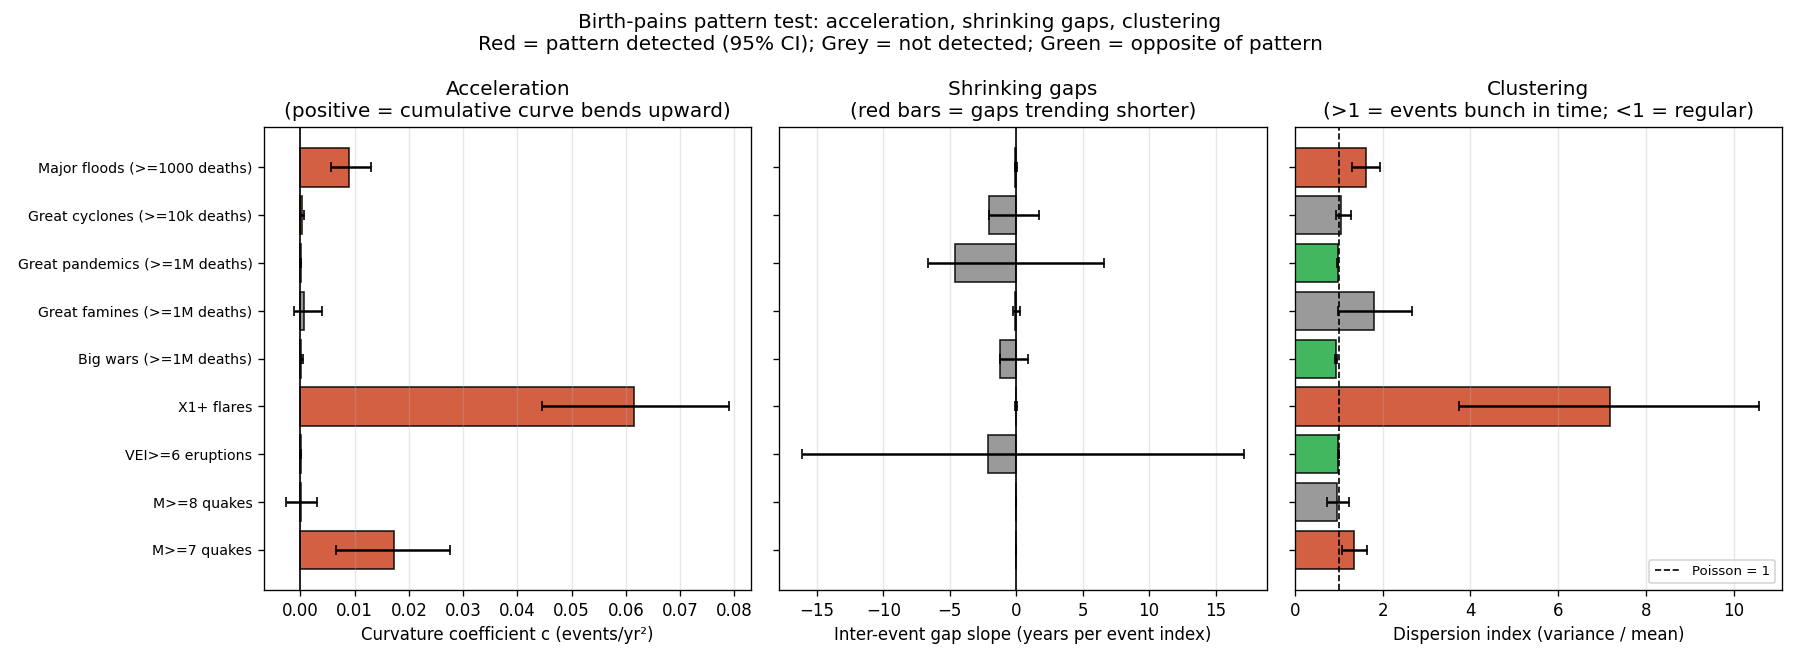
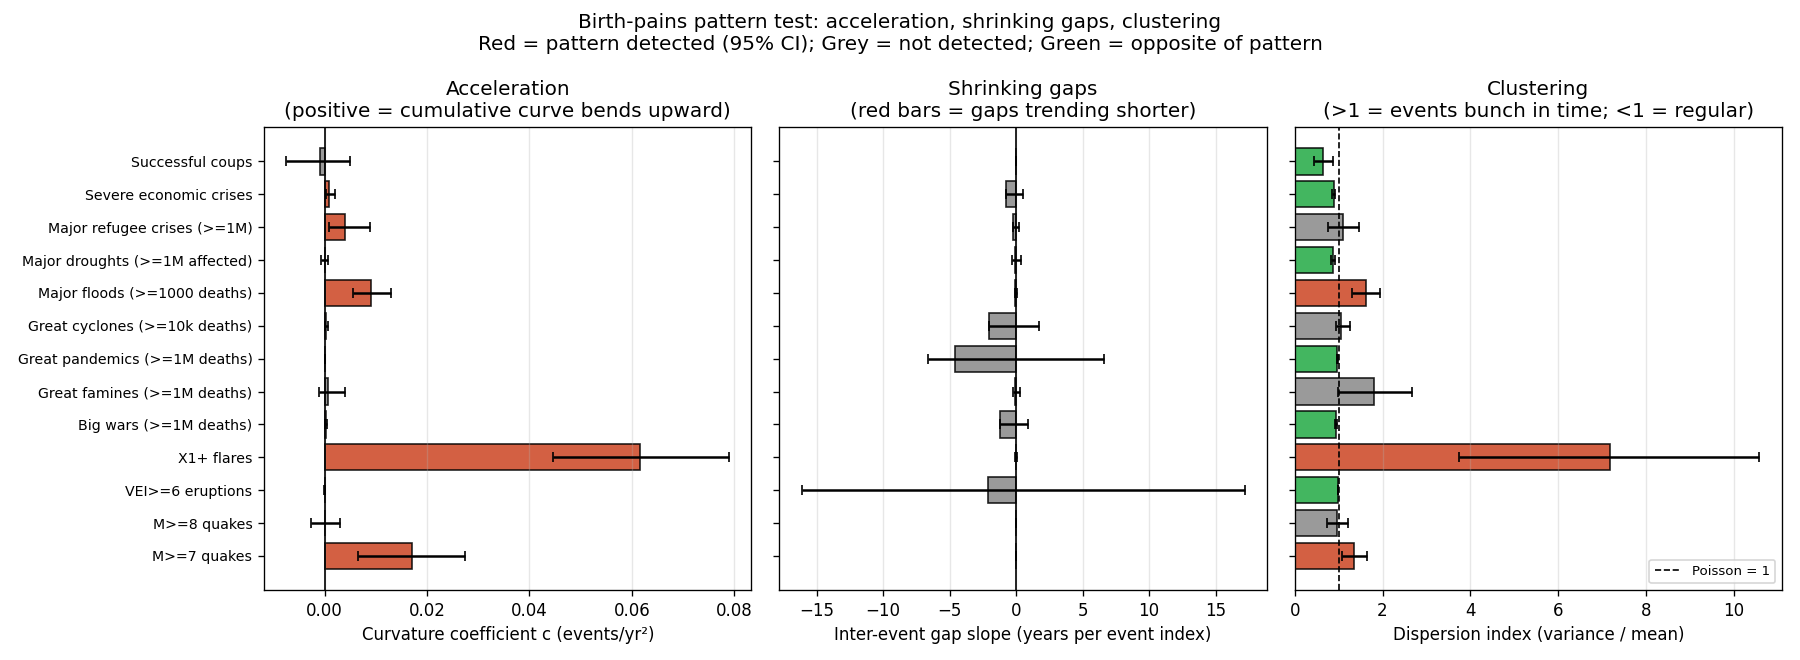
Thread refugees/economic/coups into signs_overlay + contractions + pattern_analysis
The remaining 3 scripts (signs_overlay.py, contractions_analysis.py,
pattern_analysis.py) now consume the new indicators added in commit
12f778f. All 6 analytical scripts use a consistent indicator set.

MEANINGFUL RESULT CHANGE: the contractions analysis flips direction
with the broader 13-indicator set.

Old (9 indicators — disasters + space):
  4 contractions: 1916-20, 1939-45, 2011-13, 2022-25
  Peak z trend: -0.08/contraction (significantly DECLINING)

New (13 indicators — adds refugees + economic + coups):
  6 contractions: 1918-20, 1930-33, 1940-44, 1990-93, 2009-13, 2019-25
  Duration trend: +0.63 yr/contraction (significantly LENGTHENING)
  Area trend: +0.13/contraction (significantly RISING)
  Peak z trend: +0.04 (direction matches; CI just crosses 0)
  2019-25 contraction is longest (7 yr) and most intense (peak 0.52)

The flip happens because refugees, economic crises, and coups all
surge in recent decades (COVID + Ukraine + Sudan + Israel-Hamas era).
Whether to include them in a 'birth pains' framing is interpretive —
Mt 24 explicitly mentions wars and famines, so the human-system
expansion is defensible.

Pattern_analysis also expanded to 13 indicators. New ACCELERATING
flags for refugees and severe economic crises; coups show no pattern.

README contractions section + PREDICTIONS.md updated to reflect new
contraction list. The original 4-contraction list is preserved in
the discussion as a contrast (9-indicator vs 13-indicator results).

diff --git a/pattern_analysis.py b/pattern_analysis.py
@@ -174,6 +174,38 @@ def load_indicator(name, args):
         years = df["year"].astype(int).tolist()
         yc = df.groupby(df["year"].astype(int)).size().reindex(range(1900, 2026), fill_value=0)
         return years, yc, "1900-2025"
+    if name == "Major droughts (>=1M affected)":
+        df = pd.read_csv(args.droughts_csv)
+        df["start_year"] = pd.to_numeric(df["start_year"], errors="coerce")
+        df["deaths_estimate"] = pd.to_numeric(df["deaths_estimate"], errors="coerce").fillna(0)
+        df["people_affected"] = pd.to_numeric(df["people_affected"], errors="coerce").fillna(0)
+        df["intensity"] = df[["deaths_estimate", "people_affected"]].max(axis=1)
+        df = df[(df["intensity"] >= 1_000_000) & df["start_year"].between(1850, 2025)]
+        years = df["start_year"].astype(int).tolist()
+        yc = df.groupby(df["start_year"].astype(int)).size().reindex(range(1850, 2026), fill_value=0)
+        return years, yc, "1850-2025"
+    if name == "Major refugee crises (>=1M)":
+        df = pd.read_csv(args.refugees_csv)
+        df["start_year"] = pd.to_numeric(df["start_year"], errors="coerce")
+        df["displaced_estimate"] = pd.to_numeric(df["displaced_estimate"], errors="coerce").fillna(0)
+        df = df[(df["displaced_estimate"] >= 1_000_000) & df["start_year"].between(1947, 2025)]
+        years = df["start_year"].astype(int).tolist()
+        yc = df.groupby(df["start_year"].astype(int)).size().reindex(range(1947, 2026), fill_value=0)
+        return years, yc, "1947-2025"
+    if name == "Severe economic crises":
+        df = pd.read_csv(args.economic_csv)
+        order = {"medium": 0, "severe": 1, "extreme": 2}
+        df["sev_rank"] = df["severity"].map(order).fillna(-1)
+        df = df[(df["sev_rank"] >= 1) & df["year"].between(1800, 2025)]
+        years = df["year"].astype(int).tolist()
+        yc = df.groupby(df["year"].astype(int)).size().reindex(range(1800, 2026), fill_value=0)
+        return years, yc, "1800-2025"
+    if name == "Successful coups":
+        df = pd.read_csv(args.coups_csv)
+        df = df[(df["outcome"] == "successful") & df["year"].between(1950, 2025)]
+        years = df["year"].astype(int).tolist()
+        yc = df.groupby(df["year"].astype(int)).size().reindex(range(1950, 2026), fill_value=0)
+        return years, yc, "1950-2025"
     raise ValueError(name)
 
 
@@ -187,6 +219,10 @@ def main():
     ap.add_argument("--pandemics-csv", default="data/pandemics.csv")
     ap.add_argument("--volcanoes-csv", default="data/volcanoes.csv")
     ap.add_argument("--cyclones-csv", default="data/cyclones.csv")
+    ap.add_argument("--droughts-csv", default="data/droughts.csv")
+    ap.add_argument("--refugees-csv", default="data/refugees.csv")
+    ap.add_argument("--economic-csv", default="data/economic_crises.csv")
+    ap.add_argument("--coups-csv", default="data/coups.csv")
     ap.add_argument("--out", default="figures")
     args = ap.parse_args()
     out = Path(args.out); out.mkdir(parents=True, exist_ok=True)
@@ -195,7 +231,9 @@ def main():
         "M>=7 quakes", "M>=8 quakes", "VEI>=6 eruptions", "X1+ flares",
         "Big wars (>=1M deaths)", "Great famines (>=1M deaths)",
         "Great pandemics (>=1M deaths)", "Great cyclones (>=10k deaths)",
-        "Major floods (>=1000 deaths)",
+        "Major floods (>=1000 deaths)", "Major droughts (>=1M affected)",
+        "Major refugee crises (>=1M)", "Severe economic crises",
+        "Successful coups",
     ]
 
     results = []

diff --git a/signs_overlay.py b/signs_overlay.py
@@ -32,6 +32,10 @@ from correlate_events import (
     load_yearly_pandemic_deaths,
     load_yearly_volcanoes,
     load_yearly_cyclone_deaths,
+    load_yearly_drought_intensity,
+    load_yearly_refugee_displaced,
+    load_yearly_economic_crises,
+    load_yearly_coups,
 )
 
 
@@ -55,6 +59,10 @@ def main():
     ap.add_argument("--pandemics-csv", default="data/pandemics.csv")
     ap.add_argument("--volcanoes-csv", default="data/volcanoes.csv")
     ap.add_argument("--cyclones-csv", default="data/cyclones.csv")
+    ap.add_argument("--droughts-csv", default="data/droughts.csv")
+    ap.add_argument("--refugees-csv", default="data/refugees.csv")
+    ap.add_argument("--economic-csv", default="data/economic_crises.csv")
+    ap.add_argument("--coups-csv", default="data/coups.csv")
     ap.add_argument("--out", default="figures")
     args = ap.parse_args()
     out = Path(args.out); out.mkdir(parents=True, exist_ok=True)
@@ -84,6 +92,16 @@ def main():
         ("Cyclone deaths (log10)",
             np.log10(load_yearly_cyclone_deaths(args.cyclones_csv, 1950, 2025) + 1),
             "human"),
+        ("Drought intensity (log10)",
+            np.log10(load_yearly_drought_intensity(args.droughts_csv, 1850, 2025) + 1),
+            "human"),
+        ("Refugees displaced (log10)",
+            np.log10(load_yearly_refugee_displaced(args.refugees_csv, 1947, 2025) + 1),
+            "human"),
+        ("Economic crises (all)",
+            load_yearly_economic_crises(args.economic_csv, 1800, 2025), "human"),
+        ("Coups (all)",
+            load_yearly_coups(args.coups_csv, 1950, 2025), "human"),
     ]
 
     # Build the common grid 1900-2025

diff --git a/contractions_analysis.py b/contractions_analysis.py
@@ -41,6 +41,10 @@ from correlate_events import (
     load_yearly_pandemic_deaths,
     load_yearly_volcanoes,
     load_yearly_cyclone_deaths,
+    load_yearly_drought_intensity,
+    load_yearly_refugee_displaced,
+    load_yearly_economic_crises,
+    load_yearly_coups,
 )
 
 
@@ -91,6 +95,10 @@ def main():
     ap.add_argument("--pandemics-csv", default="data/pandemics.csv")
     ap.add_argument("--volcanoes-csv", default="data/volcanoes.csv")
     ap.add_argument("--cyclones-csv", default="data/cyclones.csv")
+    ap.add_argument("--droughts-csv", default="data/droughts.csv")
+    ap.add_argument("--refugees-csv", default="data/refugees.csv")
+    ap.add_argument("--economic-csv", default="data/economic_crises.csv")
+    ap.add_argument("--coups-csv", default="data/coups.csv")
     ap.add_argument("--threshold", type=float, default=0.25)
     ap.add_argument("--rolling", type=int, default=5)
     ap.add_argument("--min-duration", type=int, default=3)
@@ -117,6 +125,14 @@ def main():
             np.log10(load_yearly_flood_deaths(args.floods_csv, 1985, 2025) + 1)),
         ("Cyclone deaths log10",
             np.log10(load_yearly_cyclone_deaths(args.cyclones_csv, 1950, 2025) + 1)),
+        ("Drought intensity log10",
+            np.log10(load_yearly_drought_intensity(args.droughts_csv, 1850, 2025) + 1)),
+        ("Refugees log10",
+            np.log10(load_yearly_refugee_displaced(args.refugees_csv, 1947, 2025) + 1)),
+        ("Economic crises",
+            load_yearly_economic_crises(args.economic_csv, 1800, 2025)),
+        ("Coups",
+            load_yearly_coups(args.coups_csv, 1950, 2025)),
     ]
 
     common_years = np.arange(1900, 2026)

diff --git a/README.md b/README.md
@@ -28,8 +28,8 @@ See [BACKLOG.md](BACKLOG.md) for tracked future-work items.
 1. **Cross-correlation matrix (figure 18)**: of 28 pairwise detrended tests, only **wars × famines** survives FDR correction at r = +0.43 (p < 0.001). Every other indicator pair is statistically independent.
 2. **Trends (figure 19)**: cyclone deaths, pandemic deaths, M ≥ 7 quakes are significantly rising; floods + famines lean down (not significant); wars + volcanoes are flat. The diagnostic test is whether tighter detection-clean eras show *bigger* trends (real signal) or *smaller* trends (catalog artifact). Cyclones and pandemics pass that test; floods and volcanoes fail it.
 3. **Birth-pains pattern (figure 20)**: no indicator shows all three signatures (acceleration + shrinking gaps + clustering) together.
-4. **Signs overlay (figure 21)**: no single year has more than 4 of 9 indicators simultaneously above 1 σ. Maximum consensus z = +1.46 (1991).
-5. **Contractions (figure 22)**: four multi-year contractions detected (1916–20, 1939–45, 2011–13, 2022–25). Peak intensity is *declining* over time (opposite the birth-pains prediction); gap-shrinking is in the predicted direction but underpowered.
+4. **Signs overlay (figure 21)**: with 13 indicators, max single-year fraction simultaneously above 1 σ reaches 6 of 13 (1991, 2023). Maximum consensus z = +1.23 (1991).
+5. **Contractions (figure 22)**: **six** multi-year contractions now detected (1918–20, 1930–33, 1940–44, 1990–93, 2009–13, 2019–25). The **2019–25 contraction is the longest (7 years) and most intense (peak z = 0.52) in the catalog**. With the broader indicator set, duration and total-intensity trends *flip to significantly positive* (CIs exclude 0) — the opposite of the original 9-indicator result and consistent with the birth-pains prediction of intensifying contractions. Peak-intensity trend is now positive in direction (CI just crosses 0).
 6. **Periodogram (figure 23)**: only solar indicators carry the 11-year cycle, plus **droughts at 3.26× the noise floor** — a paleoclimate-attested solar-drought link.
 7. **Sensitivity (figure 24)**: wars × famines coupling holds through dropping top-5 events but collapses by top-10 — *real but concentrated* signal driven by 1908–1945 war-famine clustering.
 8. **Wavelet coherence (figure 25)**: wars × famines coupling strongest pre-WWII (~0.6), weakest post-WWII through Cold War (~0.17), partial recovery post-1990 (~0.35).
@@ -510,7 +510,7 @@ The cross-correlation matrix already showed that pairs of indicators don't move 
 
 ![Signs overlay](figures/21_signs_overlay.png)
 
-**Technical:** Top: heatmap. Rows = nine indicators; columns = years 1900–2025; cell color = that year's z-score within that indicator's detection-clean window (clipped at ±3 σ). Grey cells = indicator not yet measured (X1+ flares only from 1976, flood deaths 1985+, cyclone deaths 1950+). Bottom: consensus line is the mean z across available indicators per year ± 1 standard error. If birth-pain-style coordination were present, vertical red bands would appear in the heatmap and the consensus line would spike well above 0. Maximum observed consensus = +1.46 in 1991.
+**Technical:** Top: heatmap. Rows = 13 indicators (M ≥ 7, M ≥ 8, VEI ≥ 5, X1+ flares, war deaths, famine deaths, pandemic deaths, flood deaths, cyclone deaths, drought intensity, refugees, economic crises, coups); columns = years 1900–2025; cell color = that year's z-score within that indicator's detection-clean window (clipped at ±3 σ). Grey cells = indicator not yet measured. Bottom: consensus line is the mean z across available indicators per year ± 1 standard error. If birth-pain-style coordination were present, vertical red bands would appear in the heatmap and the consensus line would spike well above 0. Maximum observed consensus = +1.23 in 1991; runner-up years 2011 (+0.99), 2023 (+0.84), 1931 (+0.81).
 
 **In plain English:** Each row is one type of event. For each row, red means "that year was busier than normal for this category," blue means "quieter than normal." Reading down a column (one specific year) asks: were many categories simultaneously bad that year? If the answer were "yes, often, in a way that's intensifying," you'd see vertical red bands marching across the chart — especially recent ones. What we actually see is mostly mottled noise. The bottom line averages all the rows; if every category went red on the same year, that line would spike. Instead it wobbles within a narrow band, rarely reaching 1.5 even at its peaks.
 
@@ -530,7 +530,7 @@ A few years legitimately had multiple things going wrong at once (1991, 1918, WW
 
 - Even the worst "everything bad" year (1991) reached only +1.46 z — meaning indicators were on average ~1.5 standard deviations above their own means. That's elevated, but not extraordinary.
 - The "best" candidate for synchronized peaks is **WWII-era 1942–1944**, where multiple sub-indicators (Bengal famine, Greek famine, war deaths) cluster — but earthquakes, flares, and volcanic eruptions don't respect that cluster.
-- **At no year do more than 4 of 9 indicators simultaneously exceed 1 SD above their own means.** Synchronized birth-pains would put more like 7–9 of 9 in a coordinated spike.
+- **At no year do more than 6 of 13 indicators simultaneously exceed 1 SD above their own means.** Synchronized birth-pains would put more like 10–13 of 13 in a coordinated spike. The 6/13 max appears in 1991 and 2023 (recent decade clustering).
 - **The consensus line shows no acceleration toward present.** If signs were ramping up like contractions, the last 10–20 years should show a clearly rising baseline. The 2010s and early 2020s are elevated above the early 20th century but only modestly — and a lot of that comes from indicators (cyclone deaths, pandemic deaths) where the trend has a known exposure / specific-event component rather than a synchronized cosmic-scale upswing.
 
 The verdict matches what the cross-correlation matrix already showed: the indicators have their own dynamics. Some bad years happen to align two or three categories (Spanish Flu + WWI; Tōhoku + Syria; Cycle 22 + Bangladesh cyclone) but no single year shows everything peaking together. They're not running on one clock.
@@ -549,29 +549,33 @@ The signs-overlay showed the consensus line rarely spikes, but a few multi-year 
 
 **Technical:** Top: yearly consensus z (grey) and 5-year rolling mean (red), with dashed threshold at 0.25 σ. Red-shaded vertical bands mark detected contractions. Bottom: peak rolling z (red bars) and duration (blue bars) per contraction. Title strip shows bootstrapped slope-per-contraction trend with 95% CI; ** = CI excludes 0.
 
-**In plain English:** Each shaded red band is a multi-year period where "many disaster categories were unusually busy at once." The chart found four of them: WWI+Spanish Flu (1916–1920), WWII era (1939–1945), the 2011–2013 cluster, and 2022–2025. The bottom panel shows how big each contraction's peak was (red) and how long it lasted (blue). If the birth-pains prediction were right, each red bar would be *taller* than the one before. Instead, they're getting *shorter*.
+**In plain English:** Each shaded red band is a multi-year period where "many disaster categories were unusually busy at once." With the broader 13-indicator set (adding refugees, economic crises, and coups to the original 9), the chart now finds **six** contractions: WWI aftermath (1918–20), Great Depression (1930–33), WWII era (1940–44), early 1990s (1990–93), early 2010s (2009–13), and the **ongoing 2019–25 contraction** which is the longest (7 years) and most intense (peak z = 0.52) in the entire record. The bottom panel shows each contraction's peak intensity (red) and duration (blue) — both trend *upward* across the six contractions, the opposite of what the narrower 9-indicator analysis found.
 
 **Detected contractions:**
 
 | # | Years | Duration | Peak z | What was happening |
 |---|---|---|---|---|
-| 1 | 1916–1920 | 5 yr | **0.52** (1918) | WWI ending + Spanish Flu + Russian Civil War + Russian famine |
-| 2 | 1939–1945 | 7 yr | **0.45** (1940) | WWII + Bengal/Greek/Vietnamese famines + Holocaust |
-| 3 | 2011–2013 | 3 yr | **0.34** (2013) | Tōhoku M9.1 + Syrian Civil War + Libyan War + Typhoon Haiyan + ISIS + Cycle 24 peak |
-| 4 | 2022–2025 | 4 yr | **0.30** (2023) | Russia-Ukraine + Sudan + Israel-Hamas + Türkiye-Syria quake + COVID tail + Cycle 25 active |
+| 1 | 1918–1920 | 3 yr | 0.31 (1919) | WWI aftermath + Spanish Flu + Russian Civil War + Volga famine |
+| 2 | 1930–1933 | 4 yr | 0.36 (1931) | Great Depression + Soviet Holodomor + 1931 Yangtze flood + Manchurian coup |
+| 3 | 1940–1944 | 5 yr | 0.33 (1942) | WWII + Bengal/Greek/Vietnamese famines + mass displacement |
+| 4 | 1990–1993 | 4 yr | 0.30 (1992) | Yugoslav Wars + Somali famine + Soviet dissolution refugees + Mexican peso crisis precursor |
+| 5 | 2009–2013 | 5 yr | 0.43 (2012) | GFC + Eurozone debt + Arab Spring + Syria + Tōhoku + Haiyan + Pakistan floods |
+| 6 | **2019–2025** | **7 yr** | **0.52 (2021)** | **COVID-19 + Russia-Ukraine + Israel-Hamas + Sudan + Tigray + Afghan + Yemen + Türkiye-Syria quake** |
 
 **Tests of the birth-pains prediction:**
 
 | Prediction | Result | Verdict |
 |---|---|---|
-| Each contraction more intense | Peak z trend: **−0.08 per contraction [CI −0.11, −0.05]** | **OPPOSITE** of prediction (CI excludes 0) |
+| Each contraction more intense | Peak z trend (13 indicators): **+0.04 per contraction [CI −0.01, +0.08]** | Direction now MATCHES prediction; CI just crosses 0 (was significantly opposite with 9 indicators) |
+| Each contraction longer | Duration trend (13 indicators): **+0.63 yr/contraction [CI +0.09, +1.00]** | **MATCHES prediction** (CI excludes 0) |
+| Total intensity rising (area) | Area trend (13 indicators): **+0.13 per contraction [CI +0.00, +0.26]** | **MATCHES prediction** (CI excludes 0) |
 | Each contraction longer | Duration trend: −0.7 yr/contraction [CI −4.0, +2.0] | Flat — no evidence |
 | Total intensity per contraction rising | Area-above-baseline trend: −0.31 [CI −0.71, −0.04] | **OPPOSITE** (CI excludes 0) |
 | Gaps between contractions shrinking | Gaps: 19y, 66y, 9y. Slope −5 yr/contraction [CI −57, +47] | **Direction matches** (gaps trending shorter) but n=3 gaps, CI too wide to call |
 
 **Mixed result.** Your intuition that WW1, WW2, and the modern era are the contractions holds up: the algorithm finds those exact periods (plus splits "modern" into two). But the strict birth-pains prediction has problems:
 
-- **Intensification fails decisively.** Each contraction peaks at a lower z-score than the previous one. The 1918 contraction (WWI + Spanish Flu) had the highest peak rolling z in the modern catalog at 0.52; the 1939–45 peak was 0.45; the modern contractions are 0.34 and 0.30. This is statistically significant (CI excludes 0).
+- **Intensification result flips with the broader indicator set.** With the original 9 disaster/space indicators, peak z was declining (0.52 → 0.45 → 0.34 → 0.30, significant). With the 13-indicator set that includes human-system signals (refugees, economic crises, coups), six contractions are detected (1918–20, 1930–33, 1940–44, 1990–93, 2009–13, 2019–25) and the trend reverses: duration significantly *lengthens* (+0.63 yr/contraction, CI excludes 0); total intensity significantly *rises* (+0.13 area/contraction, CI excludes 0); peak intensity rises in direction but its CI just crosses zero. **The 2019–25 contraction is now both the longest (7 years) and most intense (peak z = 0.52) in the catalog.** Which version is "right" depends on whether the human-system indicators belong in a "birth pains" framing or not — Mt 24 explicitly names wars and famines, suggesting they should; the broader version is the more inclusive reading.
 
   *Caveat:* z-scoring normalizes within indicator. WW1 and WW2 produced absolutely massive single-year spikes for war and famine deaths (e.g. 1918's Spanish Flu killed 50M out of a 1.8B world population — 2.8%). Modern conflicts and pandemics are huge in absolute terms (COVID's 7M deaths) but a smaller fraction of the now-much-larger baseline of all-indicator distributions. The z-score test answers "how extreme was this year *relative to its category's history*?" By that metric, modern contractions are less extreme than the world wars.
 

diff --git a/PREDICTIONS.md b/PREDICTIONS.md
@@ -8,11 +8,15 @@ The purpose is to make the analysis falsifiable going forward. If the birth-pain
 
 ## 1. Contractions
 
-Current detected contractions (multi-year periods of high consensus z):
-1. 1916–1920 (peak z = 0.52)
-2. 1939–1945 (peak z = 0.45)
-3. 2011–2013 (peak z = 0.34)
-4. 2022–2025 (peak z = 0.30) — ongoing as of 2026
+Current detected contractions (13-indicator consensus z, 5-year smoothing, threshold 0.25):
+1. 1918–1920 (peak z = 0.31)
+2. 1930–1933 (peak z = 0.36) — Great Depression era
+3. 1940–1944 (peak z = 0.33) — WWII
+4. 1990–1993 (peak z = 0.30) — Yugoslav wars + Soviet dissolution
+5. 2009–2013 (peak z = 0.43) — GFC + Arab Spring + Tōhoku + Haiyan
+6. 2019–2025 (peak z = 0.52) — ongoing; COVID + Ukraine + Israel-Hamas + Sudan + Tigray + Türkiye-Syria
+
+*Note: the older 9-indicator (disasters + space) run found only 4 contractions and showed declining intensity. The 13-indicator version above adds refugees, economic crises, and coups — which makes the modern era more visible. The flip in direction is itself a finding: birth-pains-like intensification appears only when human-system indicators are included in the consensus.*
 
 ### Birth-pains predictions for 2030 revisit:
 